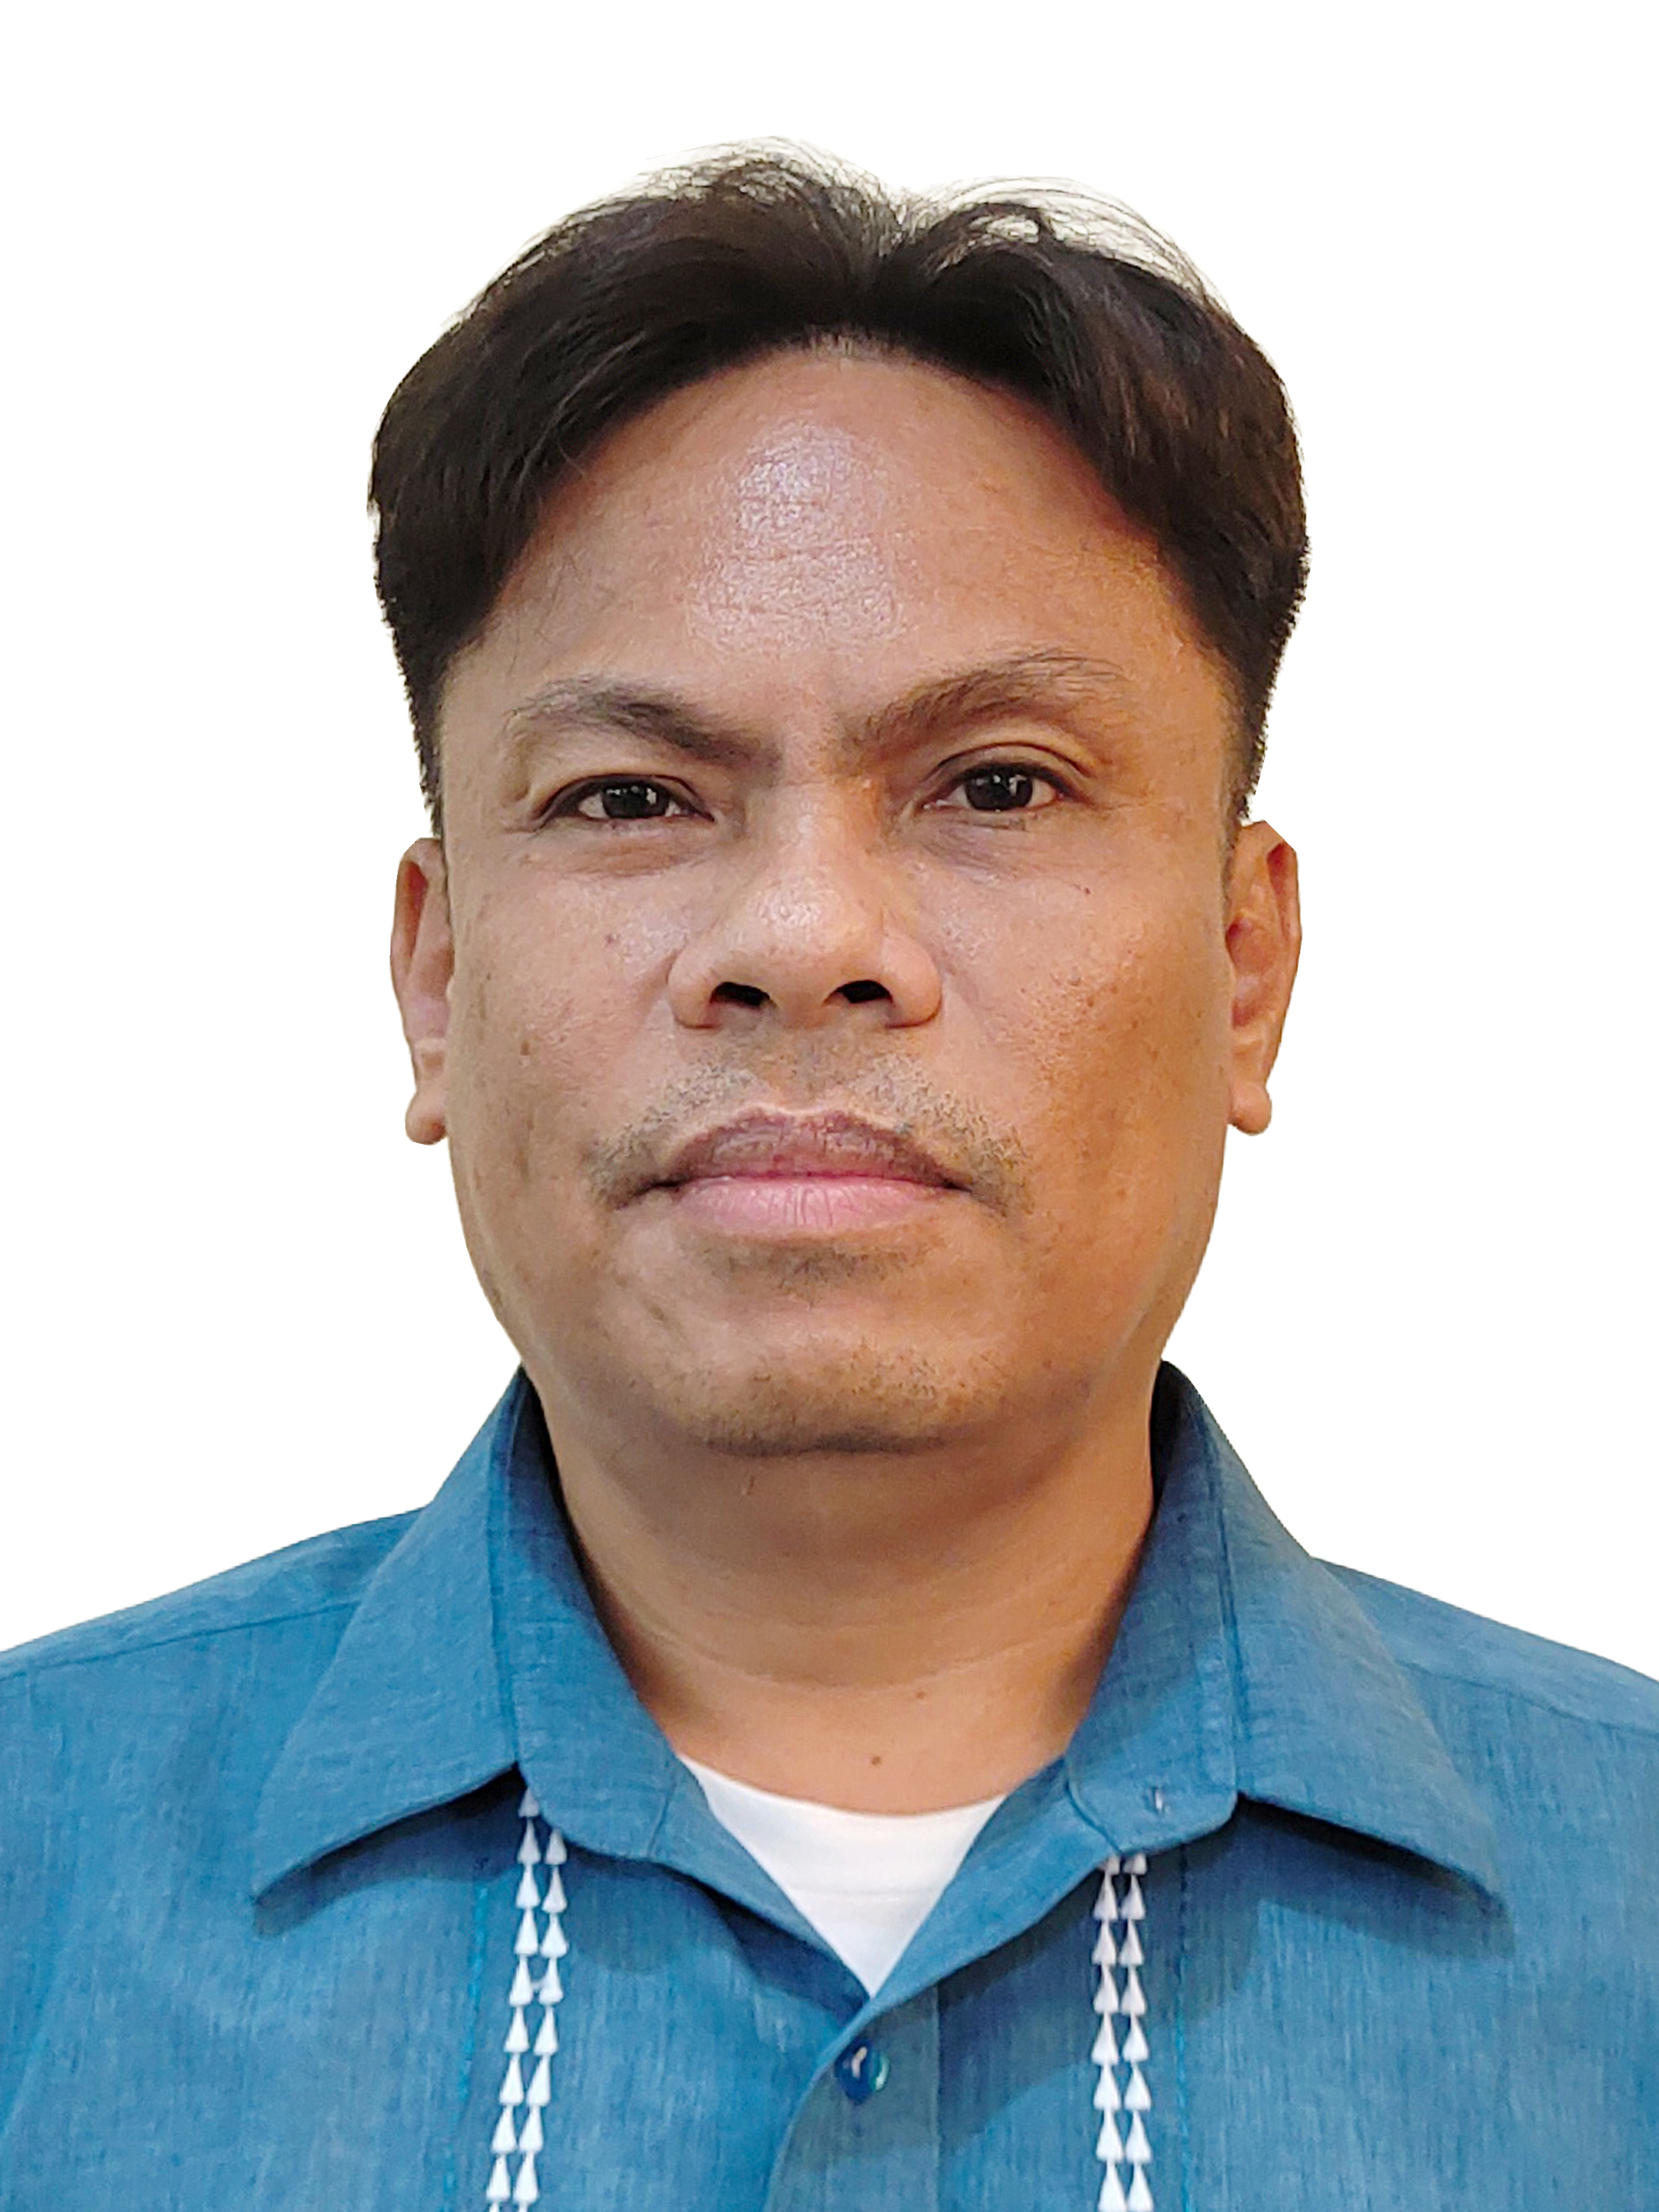
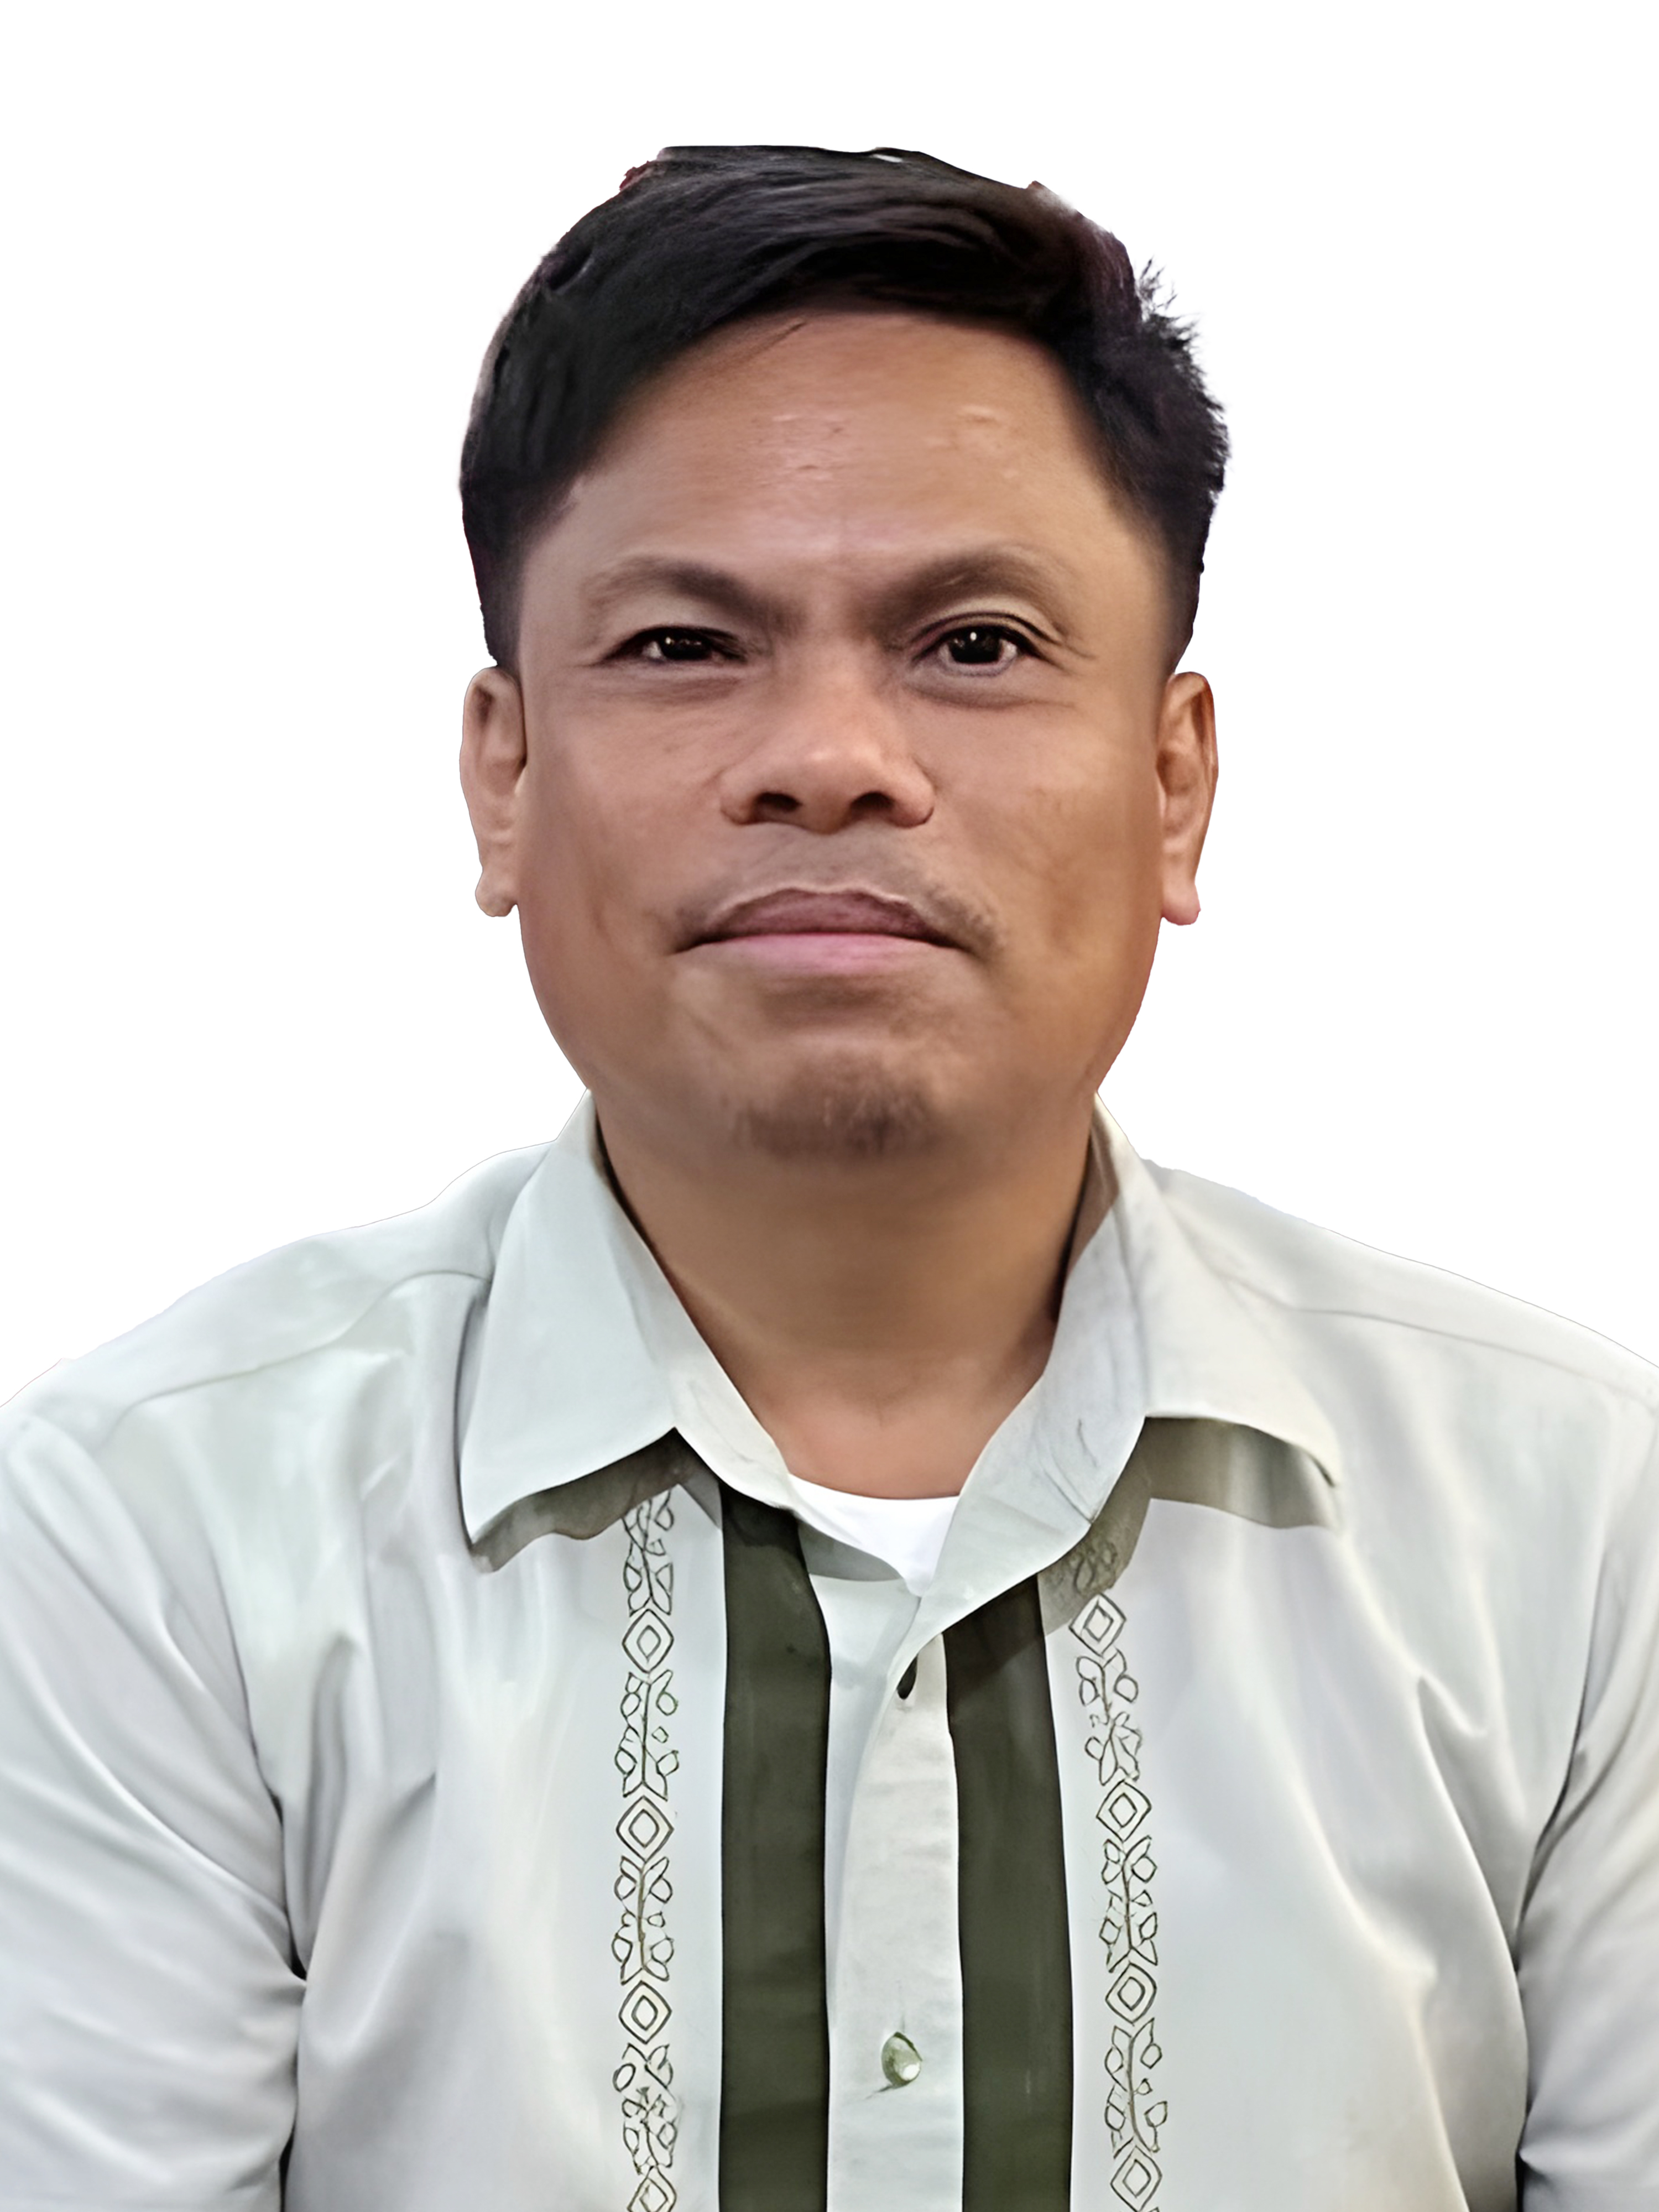
Update organization and photos

diff --git a/src/data/organization.ts b/src/data/organization.ts
@@ -202,7 +202,7 @@ export const personnel: Personnel[] = [
     department: "Junior High School",
     advisory: [{ gradeLevel: "Grade 7", section: "7-Daisy" }],
     sectionsHandled: ["Grade 7-Daisy"],
-    photo: "",
+    photo: "/teachers/ruth-briones.jpg",
   },
   {
     id: "elbert-misterio",
@@ -238,7 +238,7 @@ export const personnel: Personnel[] = [
     department: "Junior High School",
     advisory: [{ gradeLevel: "Grade 7", section: "7-Rose" }],
     sectionsHandled: ["Grade 7-Rose"],
-    photo: "",
+    photo: "/teachers/junnelyn-herbito.jpg",
   },
   {
     id: "gwendolyn-olo",
@@ -250,7 +250,7 @@ export const personnel: Personnel[] = [
     department: "Junior High School",
     advisory: [{ gradeLevel: "Grade 7", section: "7-Stargazer" }],
     sectionsHandled: ["Grade 7-Stargazer"],
-    photo: "",
+    photo: "/teachers/gwendolyn-olo.jpg",
   },
 
   // Grade 8 Advisers
@@ -288,7 +288,7 @@ export const personnel: Personnel[] = [
     department: "Junior High School",
     advisory: [{ gradeLevel: "Grade 8", section: "8-Eagle" }],
     sectionsHandled: ["Grade 8-Eagle"],
-    photo: "",
+    photo: "/teachers/bret-kalvin-primacio.jpg",
   },
   {
     id: "jeralyn-gerra",
@@ -300,7 +300,7 @@ export const personnel: Personnel[] = [
     department: "Junior High School",
     advisory: [{ gradeLevel: "Grade 8", section: "8-Falcon" }],
     sectionsHandled: ["Grade 8-Falcon"],
-    photo: "",
+    photo: "/teachers/jeralyn-gerra.jpg",
   },
   {
     id: "eljoy-barroca",
@@ -350,7 +350,7 @@ export const personnel: Personnel[] = [
     department: "Junior High School",
     advisory: [{ gradeLevel: "Grade 9", section: "9-Cypress" }],
     sectionsHandled: ["Grade 9-Cypress"],
-    photo: "",
+    photo: "/teachers/lourence-capa.jpg",
   },
   {
     id: "angelo-saavedra",
@@ -362,7 +362,7 @@ export const personnel: Personnel[] = [
     department: "Junior High School",
     advisory: [{ gradeLevel: "Grade 9", section: "9-Elm" }],
     sectionsHandled: ["Grade 9-Elm"],
-    photo: "",
+    photo: "/teachers/angelo-saavedra.jpg",
   },
   {
     id: "bella-samontanez",
@@ -386,7 +386,7 @@ export const personnel: Personnel[] = [
     department: "Junior High School",
     advisory: [{ gradeLevel: "Grade 9", section: "9-Maple" }],
     sectionsHandled: ["Grade 9-Maple"],
-    photo: "",
+    photo: "/teachers/allan-aparicio.jpg",
   },
   {
     id: "jeffrey-caberte",
@@ -436,7 +436,7 @@ export const personnel: Personnel[] = [
     department: "Junior High School",
     advisory: [{ gradeLevel: "Grade 10", section: "10-Emerald" }],
     sectionsHandled: ["Grade 10-Emerald"],
-    photo: "",
+    photo: "/teachers/marilou-cabriana.jpg",
   },
   {
     id: "sharon-alsa",
@@ -448,7 +448,7 @@ export const personnel: Personnel[] = [
     department: "Junior High School",
     advisory: [{ gradeLevel: "Grade 10", section: "10-Jade" }],
     sectionsHandled: ["Grade 10-Jade"],
-    photo: "",
+    photo: "/teachers/sharon-alsa.jpg",
   },
   {
     id: "jake-barcenas",
@@ -460,7 +460,7 @@ export const personnel: Personnel[] = [
     department: "Junior High School",
     advisory: [{ gradeLevel: "Grade 10", section: "10-Ruby" }],
     sectionsHandled: ["Grade 10-Ruby"],
-    photo: "",
+    photo: "/teachers/jake-barcenas.jpg",
   },
   {
     id: "jay-neil-oro",
@@ -497,7 +497,7 @@ export const personnel: Personnel[] = [
       "Grade 12-Saturn",
     ],
     subjectTaught: [],
-    photo: "",
+    photo: "/teachers/joseph-dagaraga.jpg",
     bio:
       "Serves as a Senior High School teacher and class adviser, supporting learner progress and classroom-based guidance.",
     consultationSchedule: "By appointment through official school channels",
@@ -541,11 +541,11 @@ export const personnel: Personnel[] = [
     ],
     sectionsHandled: ["Grade 11-Erebus", "Grade 11-Hera"],
     subjectTaught: [],
-    photo: "",
+    photo: "/teachers/marissa-pintuan.jpg",
   },
   {
-    id: "angel-batugas",
-    name: "ANGEL C. BATUGAS",
+    id: "angel-batuigas",
+    name: "ANGEL C. BATUIGAS",
     position: "Teacher",
     designation: ["Class Adviser"],
     roles: ["Subject Teacher", "Class Adviser"],
@@ -557,7 +557,7 @@ export const personnel: Personnel[] = [
     ],
     sectionsHandled: ["Grade 12-Earth", "Grade 12-Mars"],
     subjectTaught: [],
-    photo: "",
+    photo: "/teachers/angel-batuigas",
   },
   {
     id: "jevy-ann-uy",
@@ -570,20 +570,20 @@ export const personnel: Personnel[] = [
     advisory: [{ gradeLevel: "Grade 12", section: "12-Jupiter" }],
     sectionsHandled: ["Grade 12-Jupiter"],
     subjectTaught: [],
-    photo: "",
+    photo: "/teachers/jevy-ann-uy.jpg",
   },
   {
     id: "glendale-orocay",
     name: "GLENDALE R. OROCAY",
-    position: "Teacher",
+    position: "TCH-01",
     designation: ["Class Adviser"],
     roles: ["Subject Teacher", "Class Adviser"],
     group: "Teaching Personnel",
     department: "Senior High School",
     advisory: [{ gradeLevel: "Grade 12", section: "12-Venus" }],
     sectionsHandled: ["Grade 12-Venus"],
-    subjectTaught: [],
-    photo: "",
+    subjectTaught: ["Hairdressing", "Beauty Care"],
+    photo: "/teachers/glendale-orocay.jpg",
   },
 
   {